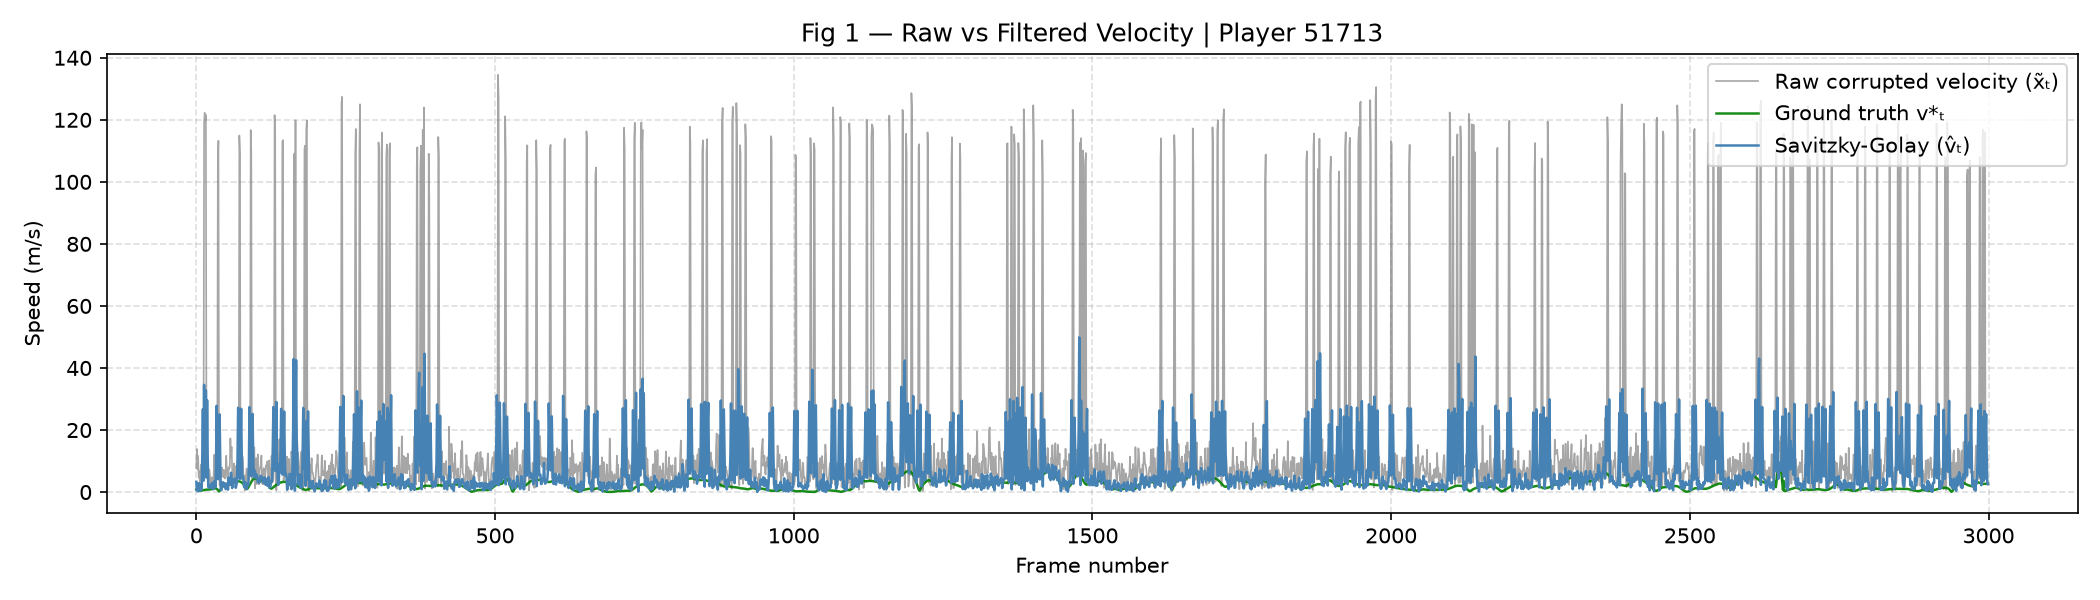
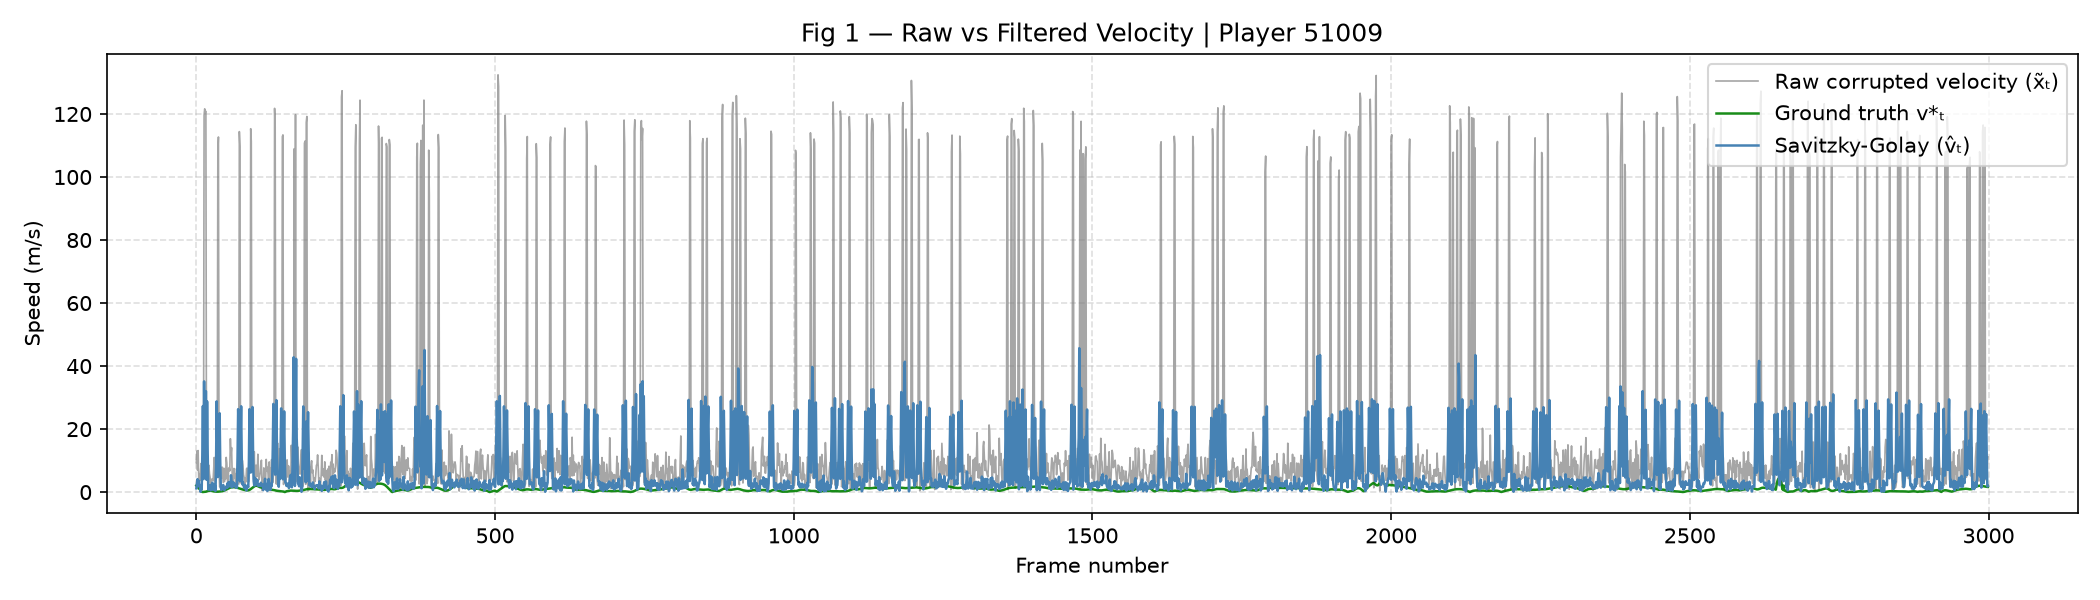
Update README and pipeline outputs

diff --git a/Spearman_Pitch_Control/config.py b/Spearman_Pitch_Control/config.py
@@ -3,7 +3,7 @@ match_ids = [
     "1886347", "1899585", "1925299", "1953632", "1996435",
     "2006229", "2011166", "2013725", "2015213", "2017461",
 ]
-match_id = "2017461"
+match_id = "1886347"
 base_path = f"data/archive_skillcorner/{match_id}"
 
 match_json = f"{base_path}/{match_id}_match.json"
@@ -54,7 +54,7 @@ bw_order = 4
 bw_fs = fps
 
 kf_q_std = 0.1
-kf_r_std = fps
+kf_r_std = sigma
 
 #-------------Pitch Control Model--------------#
 vmax = 8.0

diff --git a/Spearman_Pitch_Control/pitch_control.py b/Spearman_Pitch_Control/pitch_control.py
@@ -19,7 +19,7 @@ def time_to_intercept(px, py, vx, vy):
 
     return np.maximum(tau, 1e-6)
 
-def pitch_control_frame(home_players, away_players, beta_val):
+def pitch_control_frame(home_players, away_players, beta_val = beta):
     home_w = np.zeros((grid_nx, grid_ny))
     away_w = np.zeros((grid_nx, grid_ny))
 

diff --git a/README.md b/README.md
@@ -1,58 +1,80 @@
-# Spearman Pitch Control: Filtering Noise for Pitch-Control Distortion Analysis
+# Spearman Pitch Control
 
-## Aim
+This project studies how tracking noise changes football pitch-control estimates. It reconstructs player velocity from raw SkillCorner-style data, applies several filters, and measures both the velocity recovery error and the downstream distortion in pitch-control surfaces.
 
-This project investigates how different smoothing and filtering methods affect the recovery of player velocity from noisy tracking data and, more importantly, how those changes distort downstream pitch-control models. The central question is not simply which filter produces the smoothest trajectory, but which filter preserves the football decision model most faithfully.
+The paper-level question is simple: which filter does the best job of preserving the football decision model, not just the smoothest-looking trajectory?
 
-## Objectives
+## Brief Paper Summary
 
-- Reconstruct player velocity from raw tracking data.
-- Inject controlled synthetic noise and spikes to create a realistic recovery task.
-- Compare multiple filtering methods including moving average, Savitzky-Golay, Butterworth, and Kalman.
-- Evaluate each method using velocity error metrics such as MAE, RMSE, and Pearson correlation.
-- Measure how filtering choices alter the resulting pitch-control surface.
-- Identify the best trade-off between reconstruction accuracy and computational cost.
+The core result is that Kalman filtering gives the best end-to-end trade-off in this setup. It recovers velocity more accurately than the other tested filters and also produces the lowest pitch-control distortion. Simpler filters like moving average are faster, but they preserve the downstream model less well.
 
-## What We Did
+## Repository Architecture
 
-The pipeline was implemented as a compact research workflow that follows these steps:
+The code is organised as a small research pipeline rather than a framework:
 
-1. Load match data from the SkillCorner-style archive under the data folder.
-2. Read player tracking, team mapping, and active evaluation frames.
-3. Build a velocity baseline using smoothing-based reconstruction.
-4. Inject synthetic Gaussian noise and occasional spikes to simulate tracking noise.
-5. Apply several filters to each player track:
-   - Moving Average
-   - Savitzky-Golay
-   - Butterworth
-   - Kalman (Constant Velocity)
-6. Compare filtered velocities against the reconstructed ground truth using error metrics.
-7. Convert the resulting velocities into pitch-control surfaces and measure the downstream distortion.
-8. Generate figures and summary tables for interpretation and reporting.
+- [Spearman_Pitch_Control/config.py](Spearman_Pitch_Control/config.py): match paths, pitch geometry, filter settings, and pitch-control constants.
+- [Spearman_Pitch_Control/loader.py](Spearman_Pitch_Control/loader.py): reads tracking, match metadata, and evaluation frames.
+- [Spearman_Pitch_Control/filters.py](Spearman_Pitch_Control/filters.py): builds the clean velocity baseline, injects synthetic noise, and runs the filters.
+- [Spearman_Pitch_Control/pitch_control.py](Spearman_Pitch_Control/pitch_control.py): builds pitch-control surfaces, computes MAE maps, and prints Table I.
+- [Spearman_Pitch_Control/visualiser.py](Spearman_Pitch_Control/visualiser.py): saves the figures into the outputs folder.
+- [Spearman_Pitch_Control/main.py](Spearman_Pitch_Control/main.py): single-match entrypoint used for the main paper tables and figures.
+- [Spearman_Pitch_Control/multi_match.py](Spearman_Pitch_Control/multi_match.py): cross-match runner used for Tables IV to VI and the aggregate JSON output.
+- [helper_files/](helper_files/): utilities for tracking extraction and preprocessing.
+- [error_calculation/](error_calculation/): standalone MAE, RMSE, and Pearson-r helpers.
+- [data/](data/): raw and extracted match data.
+- [outputs/](outputs/): generated figures, tables, and cross-match results.
 
-## Project Structure
+## What To Run
 
-- Spearman_Pitch_Control/: core pipeline for pitch-control analysis and filtering
-- helper_files/: support utilities for extracting and processing tracking features
-- error_calculation/: scripts for MAE, RMSE, and Pearson-based evaluation
-- data/: match tracking and metadata files
-- outputs/: generated figures and result summaries
-- skillcorner_comarision.py: comparison script for evaluating filters against SkillCorner-style data
-
-## Main Findings
-
-In the validated experiments, Kalman filtering produced the best overall performance in terms of both velocity recovery and downstream pitch-control fidelity. Moving average was computationally cheaper but less accurate. Savitzky-Golay and Butterworth improved smoothing to some degree, but did not preserve the pitch-control model as well as Kalman in this setup.
-
-## How to Run
-
-From the project root, run:
+Run everything from the project root after activating the virtual environment.
 
 ```bash
-python skillcorner_comarision.py
+source .venv/bin/activate
+python Spearman_Pitch_Control/main.py
 ```
 
-Or use the main analysis pipeline in the Spearman_Pitch_Control folder.
+Use the main pipeline for the single-match paper results. It prints the primary tables and saves the figures.
+
+To run the broader cross-match aggregation, use:
+
+```bash
+python Spearman_Pitch_Control/multi_match.py
+```
+
+## Output Map
+
+| Runner                                                                         | What it produces                                                     |
+| ------------------------------------------------------------------------------ | -------------------------------------------------------------------- |
+| [Spearman_Pitch_Control/main.py](Spearman_Pitch_Control/main.py)               | Table I: velocity recovery RMSE                                      |
+| [Spearman_Pitch_Control/main.py](Spearman_Pitch_Control/main.py)               | Table II: pitch-control distortion at the default beta value         |
+| [Spearman_Pitch_Control/main.py](Spearman_Pitch_Control/main.py)               | Table III: beta sensitivity summary                                  |
+| [Spearman_Pitch_Control/main.py](Spearman_Pitch_Control/main.py)               | Figure 1: raw vs filtered vs ground-truth velocity                   |
+| [Spearman_Pitch_Control/main.py](Spearman_Pitch_Control/main.py)               | Figure 2: ground-truth pitch-control surface                         |
+| [Spearman_Pitch_Control/main.py](Spearman_Pitch_Control/main.py)               | Figure 3: pitch-control difference map                               |
+| [Spearman_Pitch_Control/main.py](Spearman_Pitch_Control/main.py)               | Figure 4: accuracy vs compute trade-off scatter                      |
+| [Spearman_Pitch_Control/multi_match.py](Spearman_Pitch_Control/multi_match.py) | Table IV: cross-match velocity recovery summary                      |
+| [Spearman_Pitch_Control/multi_match.py](Spearman_Pitch_Control/multi_match.py) | Table V: cross-match pitch-control distortion                        |
+| [Spearman_Pitch_Control/multi_match.py](Spearman_Pitch_Control/multi_match.py) | Table VI: ranking consistency across matches                         |
+| [Spearman_Pitch_Control/multi_match.py](Spearman_Pitch_Control/multi_match.py) | [outputs/cross_match_results.json](outputs/cross_match_results.json) |
+
+The figures saved by the main runner are written to [outputs/](outputs/), with these default filenames:
+
+- [outputs/fig1_velocity_comparison.png](outputs/fig1_velocity_comparison.png)
+- [outputs/fig2_pitch_control.png](outputs/fig2_pitch_control.png)
+- [outputs/fig3*diff_Kalman*%28CV%29_vs_Savitzky-Golay.png](outputs/fig3_diff_Kalman_%28CV%29_vs_Savitzky-Golay.png)
+- [outputs/fig4_pareto_scatter.png](outputs/fig4_pareto_scatter.png)
+
+## How The Pipeline Works
+
+1. Load match data from [data/archive_skillcorner/](data/archive_skillcorner/).
+2. Reconstruct a clean velocity baseline from player tracking.
+3. Inject synthetic Gaussian noise and spikes to simulate corruption.
+4. Apply moving average, Savitzky-Golay, Butterworth, and Kalman filtering.
+5. Compare the filtered velocity against the reconstructed ground truth.
+6. Convert filtered motion into pitch-control surfaces.
+7. Measure the distortion between the filtered and ground-truth pitch-control maps.
+8. Print the paper tables and save the figures to [outputs/](outputs/).
 
 ## Notes
 
-The project was developed as a paper-oriented research workflow rather than a production-grade package. The code was also cleaned up to make multi-match runs more reliable, improve validation of active frames, and prevent crashes during evaluation.
+The default match in the configuration is the one currently used for the single-match pipeline. The multi-match runner is the better entrypoint when you want aggregated statistics across the available matches.
